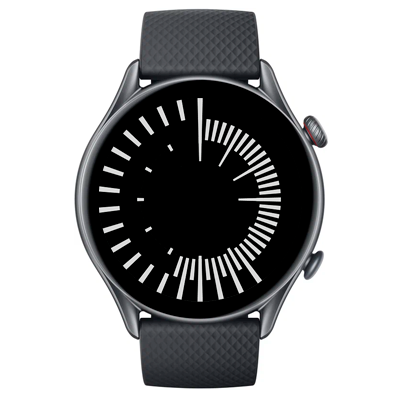
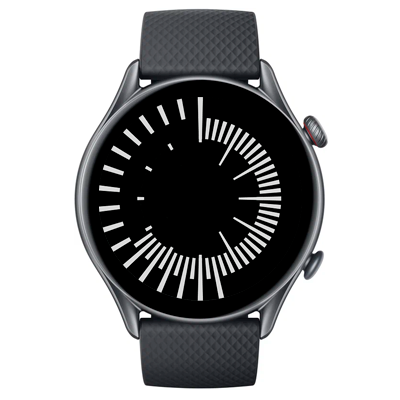
fix hour view

diff --git a/repelling-radial/watchface/index.js b/repelling-radial/watchface/index.js
@@ -43,14 +43,18 @@ WatchFace({
     let updateTimer = undefined;
 
     const ANGLE_GAP = 2;
-    const UPDATE_INTERVAL = 2000;
+    const UPDATE_INTERVAL = 1000;
 
     const update = () => {
       const { hour, minute, second } = timeSensor;
-      const isSecondInreasing = minute % 2 === 0;
 
-      const hourAngle = (360 / 12) * (hour % 12) + ANGLE_GAP;
-      const minuteAngle = (360 / 60) * minute + ANGLE_GAP;
+      const hourAngleStart = (360 / 12) * (hour % 12) + ANGLE_GAP;
+      const hourAngleEnd = hour % 12 === 0 ? 0 + ANGLE_GAP : 360 + ANGLE_GAP;
+
+      const minuteAngleStart = (360 / 60) * minute + ANGLE_GAP;
+      const minuteAngleEnd = 360 - ANGLE_GAP;
+
+      const isSecondInreasing = minute % 2 === 0;
       const secondAngle = (360 / 60) * second;
       const secondAngleStart = isSecondInreasing
         ? secondAngle - ANGLE_GAP
@@ -61,14 +65,14 @@ WatchFace({
 
       hourArcWidget.setProperty(hmUI.prop.MORE, {
         ...HOUR_ARC_PROPS,
-        start_angle: hourAngle,
-        end_angle: 360 - ANGLE_GAP,
+        start_angle: hourAngleStart,
+        end_angle: hourAngleEnd,
       });
 
       minuteArcWidget.setProperty(hmUI.prop.MORE, {
         ...MINUTE_ARC_PROPS,
-        start_angle: minuteAngle,
-        end_angle: 360 - ANGLE_GAP,
+        start_angle: minuteAngleStart,
+        end_angle: minuteAngleEnd,
       });
 
       secondArcWidget.setProperty(hmUI.prop.MORE, {
